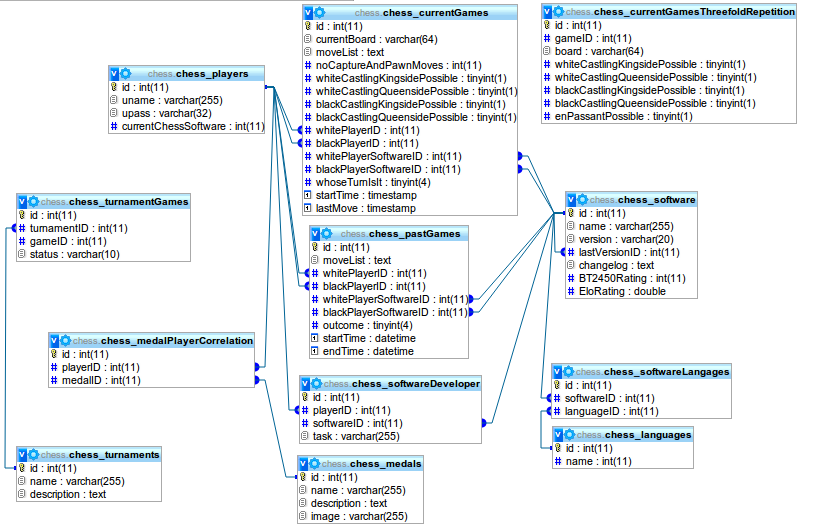
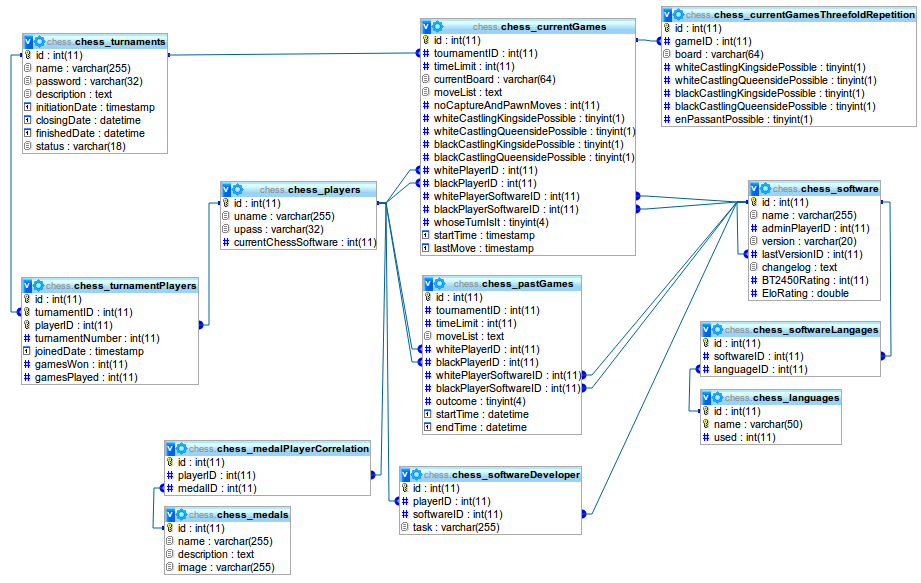
made some progress for supporting tournaments

diff --git a/tournaments.php b/tournaments.php
@@ -9,12 +9,157 @@ if(USER_ID === false){exit("Please <a href='login.wrapper.php'>login</a>");}
 if(isset($_POST['tournamentName'])){
     $tournamentName = mysql_real_escape_string($_POST['tournamentName']);
     $description    = mysql_real_escape_string($_POST['description']);
+    $password       = md5($_POST['password']);
+    $closingDate    = mysql_real_escape_string($_POST['closingDate']);
 
     $keyValue = array('name'=>$tournamentName, 'description'=>$description);
+    $keyValue['password'] = $password;
+    $keyValue['closingDate'] = $closingDate;
     insertIntoTable($keyValue, "chess_turnaments");
 }
 
+if(isset($_GET['challengePlayerID'])){
+    $id = intval($_GET['challengePlayerID']);
+    $tournamentID = intval($_GET['tournamentID']);
+
+    $cond  = 'WHERE `id` = '.$id.' AND `id` != '.USER_ID;
+    $row = selectFromTable(array('uname'), 'chess_players', $cond);
+    $challengedUser = $row['uname'];
+    if($row !== false){
+        $cond = "WHERE (`whitePlayerID` = ".USER_ID." AND `blackPlayerID`=$id)";
+        $cond.= " OR (`whitePlayerID` = $id AND `blackPlayerID`=".USER_ID.") ";
+        $cond.= "AND tournamentID=$tournamentID";
+        $row = selectFromTable(array('id'), 'chess_currentGames', $cond);
+        if($row !== false){
+            echo "You've already challenged the player '".$challengedUser."'. ";
+            echo "The current game has the id '".$row['id']."'.";
+        } else {
+            #Do both players participate in tournament?
+            $rows = array('playerID', 'gamesWon', 'gamesPlayed');
+            $cond = "WHERE turnamentID=$tournamentID AND (playerID=".USER_ID;
+            $cond.= " OR playerID=".$id.")";
+            $results=selectFromTable($rows, 'chess_turnamentPlayers', $cond, 2);
+            if(count($results)<2){
+                exit("Either you or your opponent is not part of the tournament.");
+            }
+            #Have both players played the same number of games?
+            if($results[0]['gamesPlayed'] != $results[1]['gamesPlayed']){
+                exit("You haven't won the same number of mathes as ".
+                     "your opponent.");
+            }
+            #Are you both still in the tournament (no lost games)?
+            if($results[0]['gamesWon'] != $results[0]['gamesPlayed']){
+                exit("You have lost at least one game.");
+            }
+
+
+
+            $cond  = "WHERE `id` = ".USER_ID." OR `id`=$id";      
+            $rows  = array('id', 'currentChessSoftware');  
+            $result = selectFromTable($rows, "chess_players", $condition, 2);
+
+            if($result[0]['id'] == USER_ID){
+                $whitePlayerSoftwareID = $result[0]['currentChessSoftware'];
+                $blackPlayerSoftwareID = $result[1]['currentChessSoftware'];
+            } else {
+                $blackPlayerSoftwareID = $result[0]['currentChessSoftware'];
+                $whitePlayerSoftwareID = $result[1]['currentChessSoftware'];
+            }
+            $keyValuePairs= array('whitePlayerID'=>USER_ID, 
+                               'blackPlayerID'=>$id,
+                               'whitePlayerSoftwareID'=>$whitePlayerSoftwareID,
+                               'blackPlayerSoftwareID'=>$blackPlayerSoftwareID);
+            insertIntoTable($keyValuePairs, 'chess_currentGames');
+
+            echo "You have started a game against the player with the ID ".$id;
+            echo ". The Username of this Player is '$challengedUser'.";
+        }
+    } else {
+        echo "You have selected an incorrect ID.";
+    }
+
+
+
+
+}
+
+if(isset($_GET['enterID'])){
+    $tournamentID = intval($_GET['enterID']);
+    $pass = md5($_GET['password']);
+    $cond = "WHERE id=$tournamentID AND password='".$pass."' AND closingDate > NOW()";
+    $result = selectFromTable(array('id'), 'chess_turnaments', $cond);
+    if($result['id'] != $tournamentID){exit("Wrong password or tournament is already closed.");}
+
+    $keyValue = array('turnamentID'=>$tournamentID, 'playerID'=>USER_ID);
+    $id = insertIntoTable($keyValue, "chess_turnamentPlayers");
+    if($id > 0){
+        echo msg("You joined the tournament with the ID $tournamentID");
+    } else{
+        echo msg("I couldn't add you to the tournament. Do you already participate?");
+    }
+}
+
+if(isset($_GET['deleteParticipation'])){
+    $tournamentID = intval($_GET['deleteParticipation']);
+    $cond = "WHERE turnamentID=$tournamentID AND playerID=".USER_ID;
+    $result = selectFromTable(array('id'), 'chess_turnamentPlayers', $cond);
+    deleteFromTable('chess_turnamentPlayers', $result['id']);
+}
+
+$cond = "WHERE `playerID`=".USER_ID;
+$result = selectFromTable(array('turnamentID'), 'chess_turnamentPlayers', $cond, 100);
+$myParticipations = array();
+foreach($result as $row){
+    $myParticipations[] = $row['turnamentID'];
+}
+
 ?>
+<html>
+<head>
+<link rel="stylesheet" type="text/css" href="styling/default.css" />
+</head>
+<body>
+
+<?
+if (isset($_GET['getDetails'])){
+    $id = intval($_GET['getDetails']);
+    echo '<h1>Details of tournament</h1>';
+    echo '<table>';
+    echo '<tr>';
+    echo '<th>playerID</th>';
+    echo '<th>joinedDate</th>';
+    echo '<th>games won / played</th>';
+    echo '<th>challenge</th>';
+    echo '</tr>';
+    $rows = array();
+    $rows[] = 'id';
+    $rows[] = 'playerID';
+    $rows[] = 'turnamentNumber';
+    $rows[] = 'joinedDate';
+    $rows[] = 'gamesWon';
+    $rows[] = 'gamesPlayed';
+    $cond   = "WHERE turnamentID=$id";
+    $results = selectFromTable($rows, 'chess_turnamentPlayers', $cond, 100);
+    foreach($results as $result){
+        echo '<tr>';
+        echo '<th>'.$result['playerID'].'</th>';
+        echo '<th>'.$result['joinedDate'].'</th>';
+        echo '<th>'.$result['gamesWon'].' / '.$result['gamesPlayed'].'</th>';
+        echo '<th>';
+        if($result['playerID'] != USER_ID){
+            echo '<a href="tournaments.php?challengePlayerID=';
+            echo $result['playerID'].'&tournamentID='.$id.'">challenge</a>';
+        } else {
+            echo '-';
+        }
+        echo '</th>';
+        echo '</tr>';
+    }
+    echo '</table>';
+}
+
+?>
+
 
 <h1>New tournament</h1>
 <form method="post" action="tournaments.php">
@@ -27,15 +172,77 @@ if(isset($_POST['tournamentName'])){
 <label for="description">description</label>
 <input type="text" id="description" name="description" />
 
+<label for="password">password (leaf blank for no password)</label>
+<input type="password" id="password" name="password" />
+
+<label for="closingDate">closingDate</label>
+<input type="text" id="closingDate" name="closingDate" value="
+<?
+$time = mktime () + 7*24*60*60;
+echo date("Y-m-d H:i:s", $time);
+
+?>
+" />
+
 <input type="submit" />
 </fieldset>
 </form>
 
 <h1>All tournaments</h1>
+<table border="1">
+<tr>
+    <th>Name</th>
+    <th>Password</th>
+    <th>Description</th>
+    <th>Initiation Date</th>
+    <th>Closing Date</th>
+    <th>Status</th>
+    <th>action</th>
+</tr>
 <?
-$table = 'chess_turnaments';
-$rows  = array('id','name','description');
+$rows  = array('id','name','password','description','initiationDate');
+$rows[]= 'closingDate';
+$rows[]= 'status';
 $cond  = "ORDER BY `initiationDate` DESC";
-$results = selectFromTable($rows, $table, $cond, 20);
+$results = selectFromTable($rows, 'chess_turnaments', $cond, 100);
+foreach($results as $result){
+    if(in_array($result['id'], $myParticipations)){
+        echo '<tr class="current">';
+    } else {
+        echo '<tr>';
+    }
+    echo "<td>".$result['name']."</td>";
+    echo "<td>";
+    if($result['password'] == "d41d8cd98f00b204e9800998ecf8427e"){
+        echo "No";
+    } else {
+        echo "Yes";
+    }
+    echo "</td>";
+    echo "<td>".$result['description']."</td>";
+    echo "<td>".$result['initiationDate']."</td>";
+    echo "<td>".$result['closingDate']."</td>";
+    echo "<td>".$result['status']."</td>";
+    echo '<td>';
+    if($result['status'] == 'openForInvitations'){
+        if(in_array($result['id'], $myParticipations)){
+            echo '<a href="tournaments.php?deleteParticipation='.$result['id'].'">delete Participation</a>';
+        } else {
+            if($result['password'] == "d41d8cd98f00b204e9800998ecf8427e"){
+                echo '<a href="tournaments.php?enterID='.$result['id'].'">participate</a>';
+            } else {
+                echo '<form method="get" action="tournaments.php">';
+                echo '<input type="hidden" name="enterID" value="'.$result['id'].'"/>';
+                echo '<input type="password" name="password" />';
+                echo '<input type="submit" value="participate" />';
+                echo '</form>';
+            }
+        }
+    }
+    echo ' <a href="tournaments.php?getDetails='.$result['id'].'">details</a>';
+    echo '</td>';
+    echo "</tr>";
+}
 ?>
-
+</body>
+</html>

diff --git a/playChess.php b/playChess.php
@@ -1336,7 +1336,7 @@ if (defined('MOVE')) {
     # Everything is ok => move!
     $currentBoard = makeMove($from_index, $to_index, $currentBoard, MOVE);
     # Check for:
-        if ( !hasValidMoves($currentBoard, $opponentColor) ){ 
+        if ( !hasValidMoves($currentBoard, $opponentColor) ){
             if ( isPlayerCheck($currentBoard, $opponentColor) ){
                 if($yourColor == 'white'){$outcome = 0;}
                 else {$outcome = 1;}
